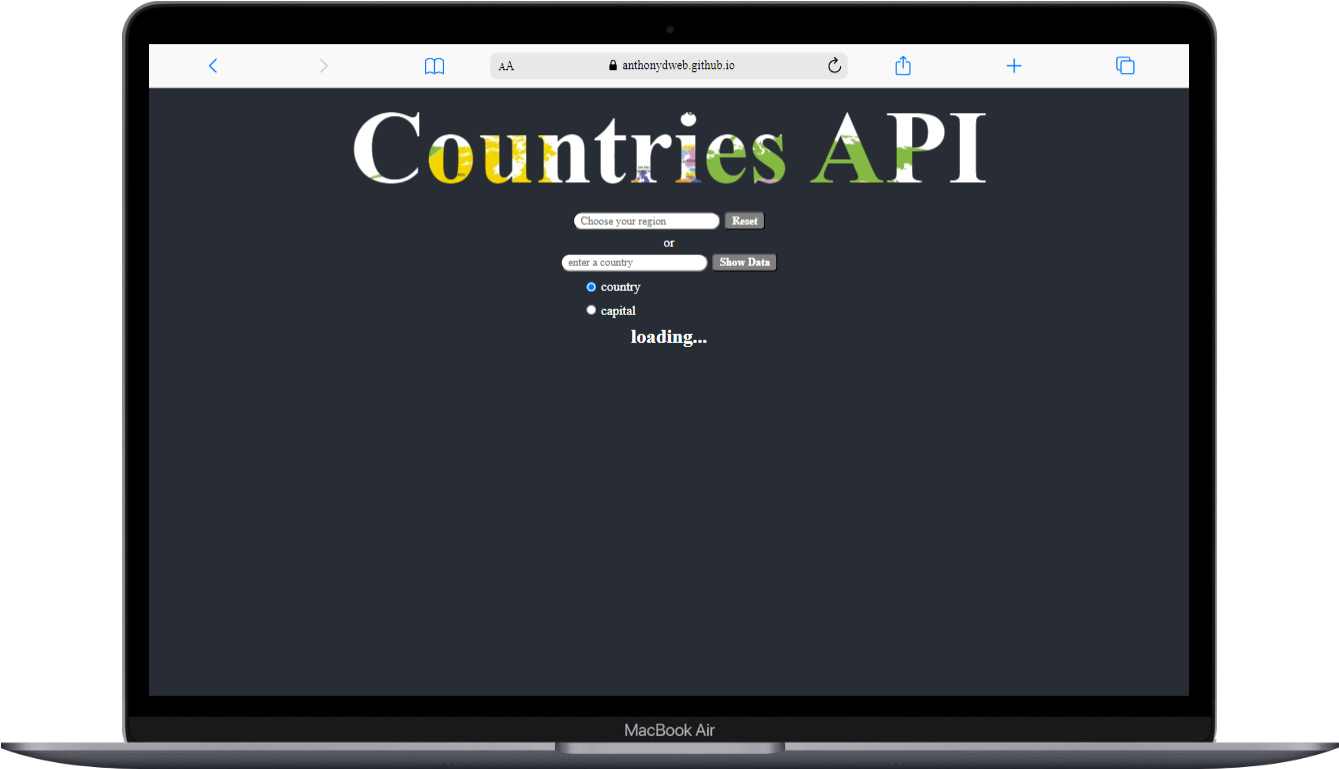
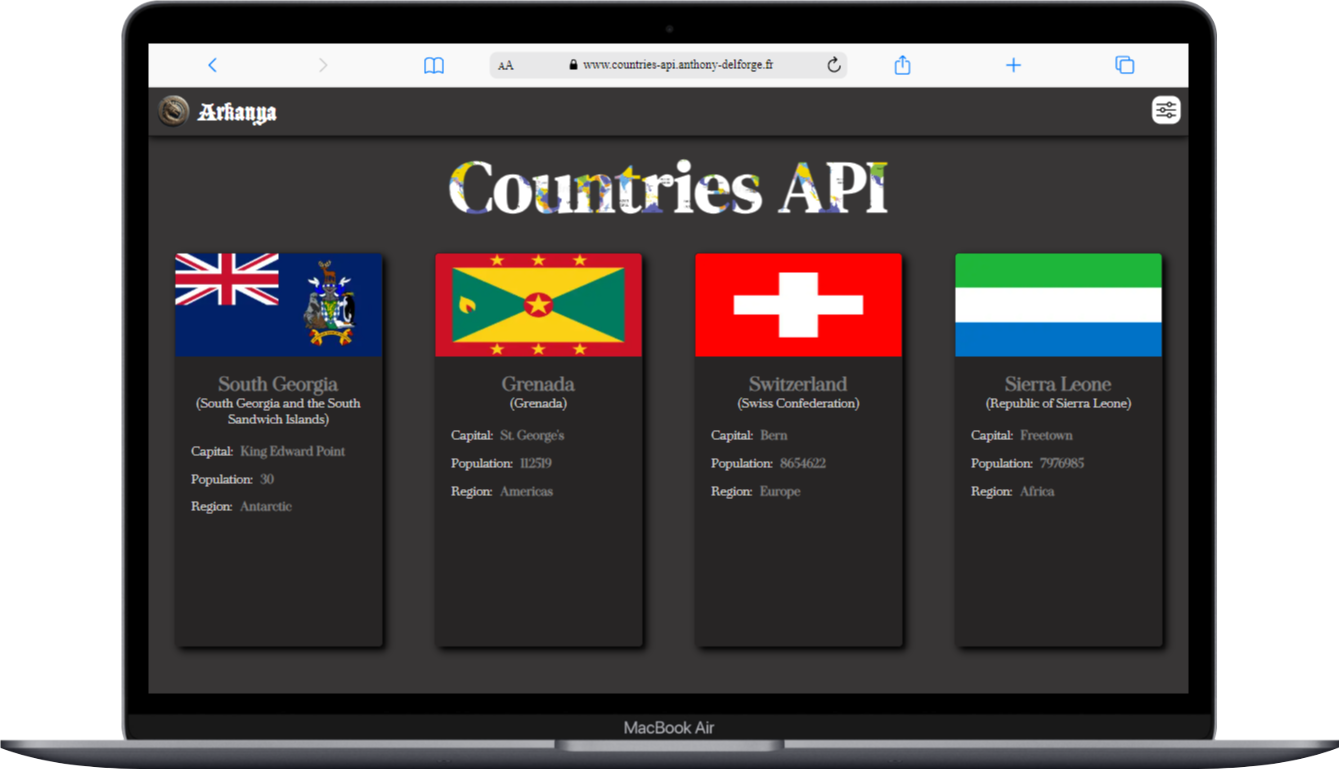
update project information

diff --git a/src/utils/project-datalist.jsx b/src/utils/project-datalist.jsx
@@ -6,7 +6,7 @@ const projects = [
         colab: [],
         description: `Site utilisant l'API "restCountries" afin d'afficher certaine information d'un pays (drapeau,nom du pays, capital, population) avec au verso de chaque carte une carte les positionant`,
         technology: "Html, CSS3, Javascript, Hooks, react-leaflet, firebase",
-        link: "https://anthonydweb.github.io/countries/",
+        link: "https://www.countries-api.anthony-delforge.fr/",
         responsive: ["mobile", "tablette", "Ipad"],
     },
     {

diff --git a/src/components/Insersection/intersection.css b/src/components/Insersection/intersection.css
@@ -5,8 +5,6 @@
     transition: all 1s ease;
     visibility: hidden;
 
-    /* background-color: aqua; */
-
     &.top {
         transform: translateY(-100%);
     }
